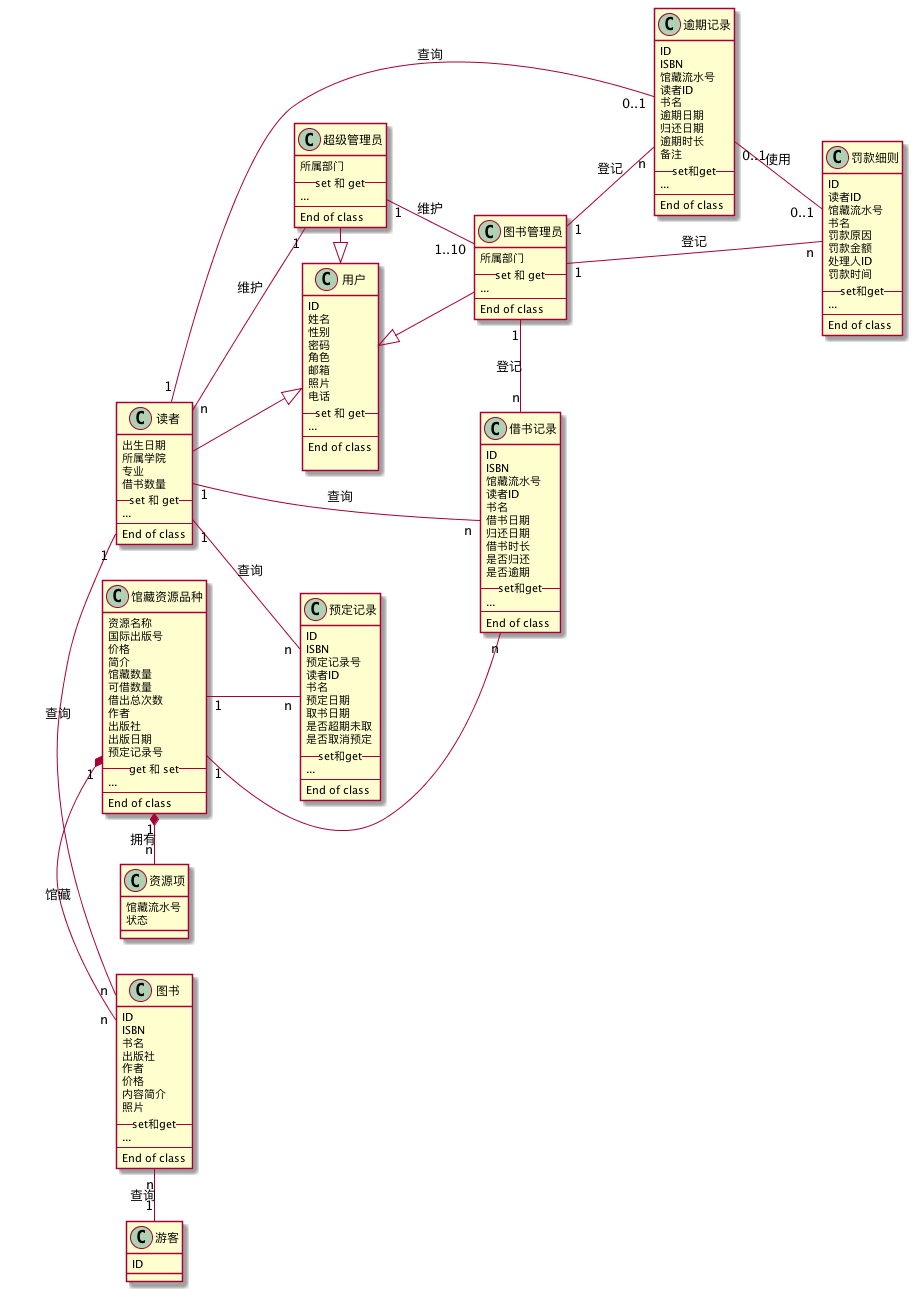
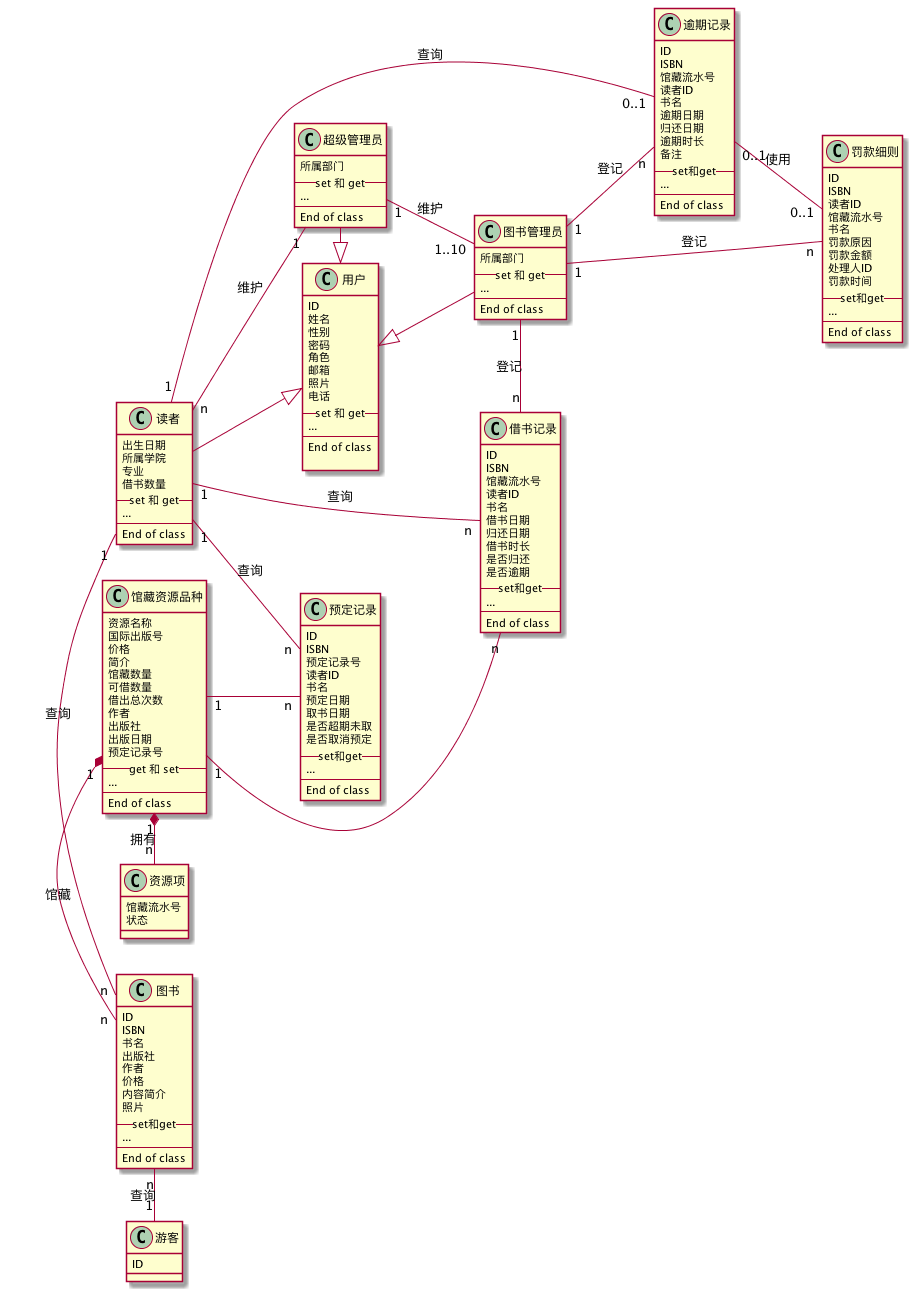
test3

Changed region(s): [[0.8904, 0.093, 1.0, 0.2789]]

diff --git a/test3/README.md b/test3/README.md
@@ -348,6 +348,7 @@ object 预定记录{
 object 逾期记录{
     ID = 77656754
     ISBN = 978-7-302-32982-4
+    馆藏流水号 = 20181011
     读者ID = 201610414105
     书名 = '数据结构'
     逾期日期 = 2017-08-19 11:22:11
@@ -355,8 +356,8 @@ object 逾期记录{
     逾期时长 = '30天'
     备注 = '无'
 
-
  }
+
 
 @enduml
 ```
@@ -370,6 +371,7 @@ object 逾期记录{
 object 罚款细则{
     ID = 7765074
     ISBN = 978-7-302-32982-4
+    馆藏流水号 = 20181011
     读者ID = 201610414105
     书名 = '数据结构'
     罚款原因 = '借书逾期30天'

diff --git a/test3/class.md b/test3/class.md
@@ -131,6 +131,7 @@ class 逾期记录{
 
 class 罚款细则{
     ID
+    ISBN
     读者ID
     馆藏流水号
     书名
